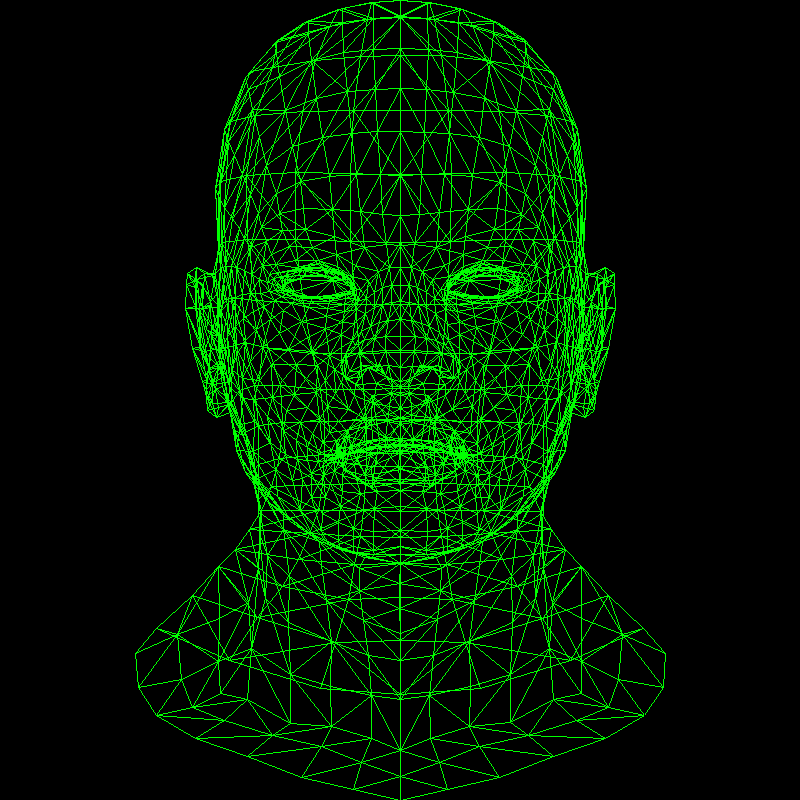
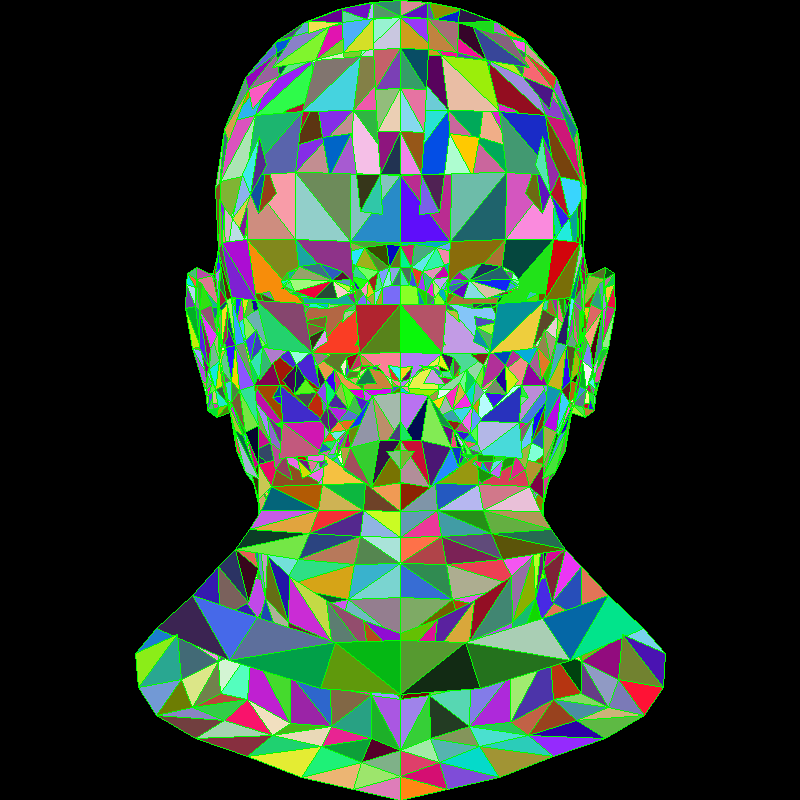
triangle filling routine + matrix class

diff --git a/geometry/Matrix.java b/geometry/Matrix.java
@@ -1,0 +1,139 @@
+package geometry;
+import java.util.Arrays;
+
+public class Matrix {
+	private static double determinant(double[][] matrix) {
+		if (matrix.length != matrix[0].length)
+			throw new IllegalStateException("invalid dimensions");
+
+		if (matrix.length == 2)
+			return matrix[0][0] * matrix[1][1] - matrix[0][1] * matrix[1][0];
+
+		double det = 0;
+		for (int i = 0; i < matrix[0].length; i++)
+			det += Math.pow(-1, i) * matrix[0][i]
+					* determinant(minor(matrix, 0, i));
+		return det;
+	}
+
+	public static double[][] inverse(double[][] matrix) {
+		double[][] inverse = new double[matrix.length][matrix.length];
+
+		// minors and cofactors
+		for (int i = 0; i < matrix.length; i++)
+			for (int j = 0; j < matrix[i].length; j++)
+				inverse[i][j] = Math.pow(-1, i + j)
+						* determinant(minor(matrix, i, j));
+
+		// adjugate and determinant
+		double det = 1.0 / determinant(matrix);
+		for (int i = 0; i < inverse.length; i++) {
+			for (int j = 0; j <= i; j++) {
+				double temp = inverse[i][j];
+				inverse[i][j] = inverse[j][i] * det;
+				inverse[j][i] = temp * det;
+			}
+		}
+
+		return inverse;
+	}
+
+	private static double[][] minor(double[][] matrix, int row, int column) {
+		double[][] minor = new double[matrix.length - 1][matrix.length - 1];
+
+		for (int i = 0; i < matrix.length; i++)
+			for (int j = 0; i != row && j < matrix[i].length; j++)
+				if (j != column)
+					minor[i < row ? i : i - 1][j < column ? j : j - 1] = matrix[i][j];
+		return minor;
+	}
+
+	public static double[][] multiply(double[][] a, double[][] b) {
+		if (a[0].length != b.length)
+			throw new IllegalStateException("invalid dimensions");
+
+		double[][] matrix = new double[a.length][b[0].length];
+		for (int i = 0; i < a.length; i++) {
+			for (int j = 0; j < b[0].length; j++) {
+				double sum = 0;
+				for (int k = 0; k < a[i].length; k++)
+					sum += a[i][k] * b[k][j];
+				matrix[i][j] = sum;
+			}
+		}
+
+		return matrix;
+	}
+
+	private static double[][] rref(double[][] matrix) {
+		double[][] rref = new double[matrix.length][];
+		for (int i = 0; i < matrix.length; i++)
+			rref[i] = Arrays.copyOf(matrix[i], matrix[i].length);
+
+		int r = 0;
+		for (int c = 0; c < rref[0].length && r < rref.length; c++) {
+			int j = r;
+			for (int i = r + 1; i < rref.length; i++)
+				if (Math.abs(rref[i][c]) > Math.abs(rref[j][c]))
+					j = i;
+			if (Math.abs(rref[j][c]) < 0.00001)
+				continue;
+
+			double[] temp = rref[j];
+			rref[j] = rref[r];
+			rref[r] = temp;
+
+			double s = 1.0 / rref[r][c];
+			for (j = 0; j < rref[0].length; j++)
+				rref[r][j] *= s;
+			for (int i = 0; i < rref.length; i++) {
+				if (i != r) {
+					double t = rref[i][c];
+					for (j = 0; j < rref[0].length; j++)
+						rref[i][j] -= t * rref[r][j];
+				}
+			}
+			r++;
+		}
+
+		return rref;
+	}
+
+	public static double[][] transpose(double[][] matrix) {
+		double[][] transpose = new double[matrix[0].length][matrix.length];
+
+		for (int i = 0; i < matrix.length; i++)
+			for (int j = 0; j < matrix[i].length; j++)
+				transpose[j][i] = matrix[i][j];
+		return transpose;
+	}
+/*
+	public static void main(String[] args) {
+		// example 1 - solving a system of equations
+		double[][] a = { { 1, 1, 1 }, { 0, 2, 5 }, { 2, 5, -1 } };
+		double[][] b = { { 6 }, { -4 }, { 27 } };
+
+		double[][] matrix = multiply(inverse(a), b);
+		for (double[] i : matrix)
+			System.out.println(Arrays.toString(i));
+		System.out.println();
+
+		// example 2 - example 1 using reduced row echelon form
+		a = new double[][]{ { 1, 1, 1, 6 }, { 0, 2, 5, -4 }, { 2, 5, -1, 27 } };
+		matrix = rref(a);
+		for (double[] i : matrix)
+			System.out.println(Arrays.toString(i));
+		System.out.println();
+
+		// example 3 - solving a normal equation for linear regression
+		double[][] x = { { 2104, 5, 1, 45 }, { 1416, 3, 2, 40 },
+				{ 1534, 3, 2, 30 }, { 852, 2, 1, 36 } };
+		double[][] y = { { 460 }, { 232 }, { 315 }, { 178 } };
+
+		matrix = multiply(
+				multiply(inverse(multiply(transpose(x), x)), transpose(x)), y);
+		for (double[] i : matrix)
+			System.out.println(Arrays.toString(i));
+	}
+*/
+}

diff --git a/TinyRenderer.java b/TinyRenderer.java
@@ -4,11 +4,14 @@ import java.awt.Image;
 import java.awt.image.BufferedImage;
 
 import java.util.ArrayList;
+import java.util.Random;
 
 import java.io.*;
 import javax.imageio.ImageIO;
 import javax.swing.JFrame;
 import javax.swing.JPanel;
+
+import geometry.Matrix;
 
 public class TinyRenderer extends JPanel {
     public static final int width = 800;
@@ -17,6 +20,13 @@ public class TinyRenderer extends JPanel {
     public static double vertices[] = null; // Point cloud. The size equals to the number of vertices*3. E.g: in order to access to the y component of vertex index i, you should write vertices[i*3+1]
     public static int triangles[] = null;   // Collection of triangles. The size equals to the number of triangles*3. Each triplet references indices in the vertices[] array.
 
+	public boolean in_triangle(int x0, int y0, int x1, int y1, int x2, int y2, int x, int y) {
+		double[][] A = { { x0, x1, x2 }, { y0, y1, y2 }, { 1., 1., 1. } };
+		double[][] b = { { x }, { y }, { 1. } };
+		double[][] coord = Matrix.multiply(Matrix.inverse(A), b);
+		return coord[0][0]>=0 && coord[1][0]>=0 && coord[2][0]>=0;
+	}
+	
     public void line(int x0, int y0, int x1, int y1, BufferedImage image, int color) {
         if (x0==x1 && y0==y1) return;
         boolean steep = false;
@@ -64,23 +74,39 @@ public class TinyRenderer extends JPanel {
         int blue  = new Color(  0,   0, 255).getRGB();
         int white = new Color(255, 255, 255).getRGB();
         BufferedImage image = new BufferedImage(width, height, BufferedImage.TYPE_INT_RGB);
-
+	Random rand = new Random();
+        
         for (int t=0; t<triangles.length/3; t++) { // iterate through all triangles
-            for (int e=0; e<3; e++) { // iterate through 3 edges
-                double x0 = vertices[triangles[t*3+e]*3+0];
-                double y0 = vertices[triangles[t*3+e]*3+1];
-                double x1 = vertices[triangles[t*3+(e+1)%3]*3+0];
-                double y1 = vertices[triangles[t*3+(e+1)%3]*3+1];
-                
-                // The points live in [-1,1]^3. 
-                // If we want to map an x from [-1,1] to [0,width], then (x+1)/2 belongs to in [0,1]. 
-                // And then width*(x+1)/2 lives in the [0,width] range. +.5 is added for rounding and not truncation.
-                int ix0 = (int)(width*(x0+1.)/2.+.5);
-                int ix1 = (int)(width*(x1+1.)/2.+.5);
-                int iy0 = (int)(height*(1.-y0)/2.+.5);
-                int iy1 = (int)(height*(1.-y1)/2.+.5);
-                line(ix0, iy0, ix1, iy1, image, green);
-            }
+		int color = new Color(rand.nextInt(256), rand.nextInt(256), rand.nextInt(256)).getRGB();
+			int[] x = new int[3];
+			int[] y = new int[3];
+			for (int v=0; v<3; v++) {
+                double xf = vertices[triangles[t*3+v]*3+0];
+                double yf = vertices[triangles[t*3+v]*3+1];
+                x[v] = (int)(width*(xf+1.)/2.+.5);
+                y[v] = (int)(height*(1.-yf)/2.+.5);
+			}
+
+			int bbminx = 10000;
+			int bbminy = 10000;
+			int bbmaxx = -10000;
+			int bbmaxy = -10000;
+			for (int v=0; v<3; v++) {
+				bbminx = Math.min(bbminx, x[v]);
+				bbminy = Math.min(bbminy, y[v]);
+				bbmaxx = Math.max(bbmaxx, x[v]);
+				bbmaxy = Math.max(bbmaxy, y[v]);
+			}
+			for (int px=bbminx; px<=bbmaxx; px++) {
+				for (int py=bbminy; py<=bbmaxy; py++) {
+					if (px<0 || py<0 || px>=width || py>=height) continue;
+					if (!in_triangle(x[0], y[0], x[1], y[1], x[2], y[2], px, py)) continue;
+					image.setRGB(px, py, color);
+				}
+			}
+			for (int e=0; e<3; e++) {
+				line(x[e], y[e], x[(e+1)%3], y[(e+1)%3], image, green);
+			}
         }
 
         try {
